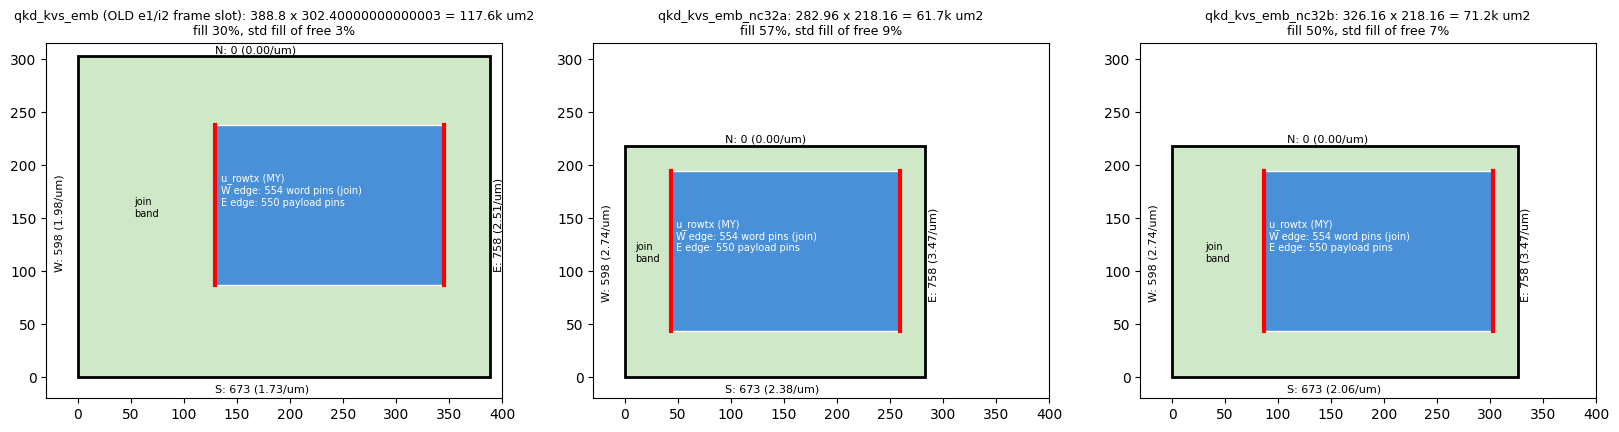
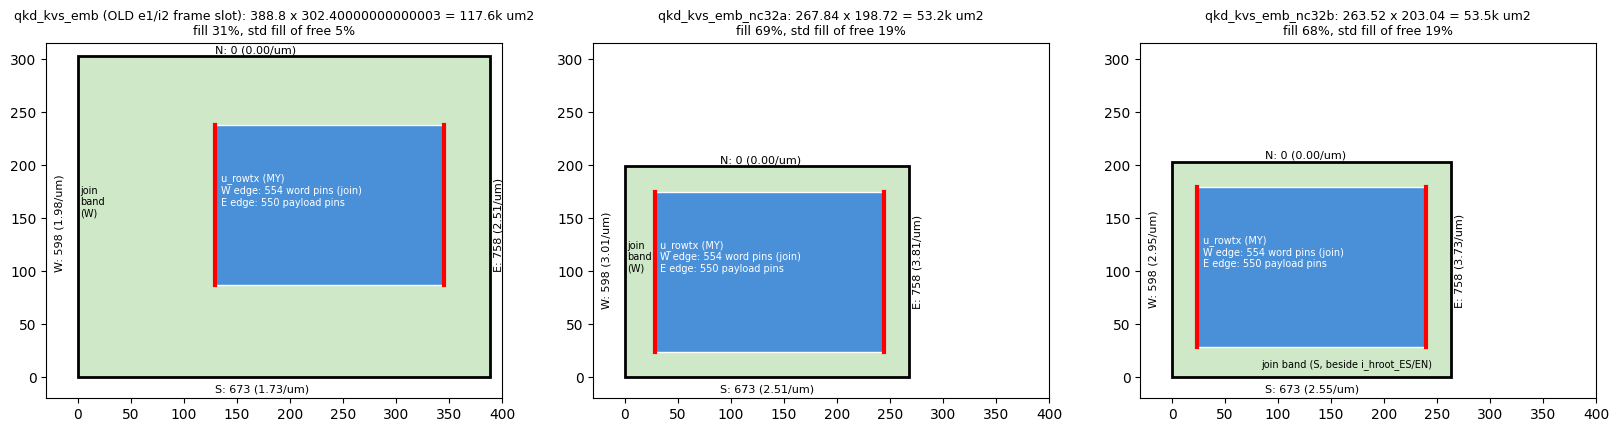
QTILE-R: kvs_emb nc32 r2 per GEOM-REVIEW FAIL: bands sized from demand (join band ~26 um, others = 20-um macro-edge rule), child on the 2.16 lattice; a = W join band 267.84x198.72, b = S join band 263.52x203.04 (std fill of free 19%)

diff --git a/results/arch/qtile_r_1023/mk_kvs_emb_nc32_specs.py b/results/arch/qtile_r_1023/mk_kvs_emb_nc32_specs.py
@@ -9,18 +9,22 @@ import copy, json, os
 ROOT = os.path.abspath(os.path.join(os.path.dirname(os.path.abspath(__file__)), "../../.."))
 base = json.load(open(f"{ROOT}/physical/ref_tile/qkd_kvs_emb/spec.json"))
 E = "rtl/qwen_sys/static_embedding_20261014/"
-for name, cx, w, tag in (("qkd_kvs_emb_nc32a", 43.2, 282.96, "nc32a"), ("qkd_kvs_emb_nc32b", 86.4, 326.16, "nc32b")):
+# r2 (GEOM-REVIEW 02:24 FAIL: bands not sized from demand): bands = demand, macro-edge rule (>= 20 um from every core edge) is
+# the floor; a: join band W (~26 um, beside the child W word edge), S/E/N = 20-um rule; b (real alternative): join band S
+# (~26 um, under the child, beside the 598 i_hroot_ES/EN S pins), W/E/N = 20-um rule.
+for name, cx, cy, w, h, tag in (("qkd_kvs_emb_nc32a", 28.08, 23.76, 267.84, 198.72, "nc32a2"), ("qkd_kvs_emb_nc32b", 23.76, 28.08, 263.52, 203.04, "nc32b2")):
     s = copy.deepcopy(base)
     s["name"] = name
     s["sources"] = ["rtl/lib/ot_rst_relay.sv", E + "qkd_embedding_static_join4_cal.sv", E + "qkd_embedding_static_join4.sv",
                     E + "qkd_embedding_static_join.sv", "rtl/qwen_sys/static_kv_die_20261017/qkd_kvs_tiles_hroot_ff_k_hl_mu_ba_n32_pj_nc32.sv"]
-    s["outline"] = {"w": w, "h": 218.16, "exact": True}
-    s["children"][0]["at"] = [cx, 43.2]
+    s["outline"] = {"w": w, "h": h, "exact": True}
+    s["child_lattice_um"] = 2.16   # child origin on the 2.16 row/site lattice; the 43.2 lattice would force 43-um empty bands (GEOM-REVIEW: size bands from demand)
+    s["children"][0]["at"] = [cx, cy]
     s["fill_reason"] = {"pin_bound": f"content = hard u_rowtx 216 x 151.2 + ~1.9k um2 std + ~2.0k pin flops; the outline is the child plus "
-                        f"one W join band ({round(cx - 2.16, 1)} um), a 41-um S band (673 S pins, 2.4/um) and 21.6-um E/N bands "
-                        f"(E 786 pins over 218 um = 3.6/um); smaller faces would exceed ~5 pins/um. Was 388.8 x 302.4 (frame slot)."}
+                        f"bands sized from demand: join band {'W' if tag.startswith('nc32a') else 'S'} ~26 um (join4_cal std + its face pin flops), every "
+                        f"other band = the 20-um macro-edge rule; fill of free ~20%; faces <= 3.9 pins/um. Was 388.8 x 302.4 (frame slot)."}
     s["low_fill_reason"] = s["fill_reason"]["pin_bound"]
-    s["slot_change_request"] = {"from": [388.8, 302.4], "to": [w, 218.16], "why": "COORD/OWNER 10-23 outline-from-content; KV die lead (STEWARD-QKd) re-derives the frame slot"}
+    s["slot_change_request"] = {"from": [388.8, 302.4], "to": [w, h], "why": "COORD/OWNER 10-23 outline-from-content; KV die lead (STEWARD-QKd) re-derives the frame slot"}
     s["structural_change"] = ("QTILE-R 10-23: kit of the BOUND nc32 qkd_kvs_emb (join4_cal NATIVE32+PIPE_JOIN, rope_sweep) with the outline from "
                               "content (was the 388.8 x 302.4 frame slot, logic only at the faces); same faces, same every-pin registers as e1")
     s["job"] = {"owner": "QTILE-R", "branch": "claude/qtile-r-kvemb-1023", "tag": tag,
@@ -29,4 +33,4 @@ for name, cx, w, tag in (("qkd_kvs_emb_nc32a", 43.2, 282.96, "nc32a"), ("qkd_kvs
         s.pop(k, None)
     d = f"{ROOT}/physical/ref_tile/{name}"; os.makedirs(d, exist_ok=True)
     json.dump(s, open(f"{d}/spec.json", "w"), indent=1)
-    print(name, w, 218.16, round(w * 218.16))
+    print(name, w, h, round(w * h))

diff --git a/results/arch/qtile_r_1023/render_kvs_emb.py b/results/arch/qtile_r_1023/render_kvs_emb.py
@@ -5,7 +5,7 @@ matplotlib.use("Agg")
 import matplotlib.pyplot as plt
 from matplotlib.patches import Rectangle
 ROOT = os.path.abspath(os.path.join(os.path.dirname(__file__), "../../.."))
-FB = {"S": 673, "E": 758, "W": 598, "N": 0}; CH = 216.0 * 151.2; STD = 2600.0
+FB = {"S": 673, "E": 758, "W": 598, "N": 0}; CH = 216.0 * 151.2; STD = 3900.0
 fig, axs = plt.subplots(1, 3, figsize=(20, 6)); out = {}
 for ax, k in zip(axs, ["qkd_kvs_emb", "qkd_kvs_emb_nc32a", "qkd_kvs_emb_nc32b"]):
     f = json.load(open(f"{ROOT}/physical/ref_tile/{k}/floorplan.json")); W, H = f["die"][2], f["die"][3]
@@ -14,7 +14,8 @@ for ax, k in zip(axs, ["qkd_kvs_emb", "qkd_kvs_emb_nc32a", "qkd_kvs_emb_nc32b"])
         ax.add_patch(Rectangle((b["x"], b["y"]), b["w"], b["h"], fc="#4a90d9", ec="w"))
         ax.plot([b["x"]] * 2, [b["y"], b["y"] + b["h"]], "r-", lw=3); ax.plot([b["x"] + b["w"]] * 2, [b["y"], b["y"] + b["h"]], "r-", lw=3)
         ax.text(b["x"] + 5, b["y"] + b["h"] / 2, "u_rowtx (MY)\nW edge: 554 word pins (join)\nE edge: 550 payload pins", fontsize=7, color="w")
-        ax.text(b["x"] / 2 - 12, H / 2, "join\nband", fontsize=7)
+        if k.endswith("nc32b"): ax.text(b["x"] + 60, b["y"] / 2 - 4, "join band (S, beside i_hroot_ES/EN)", fontsize=7)
+        else: ax.text(2, H / 2, "join\nband\n(W)", fontsize=7)
     fl = {"W": H, "E": H, "S": W, "N": W}
     for fc, (x, y, r) in {"W": (-22, H / 3, 90), "E": (W + 3, H / 3, 90), "S": (W / 3, -14, 0), "N": (W / 3, H + 3, 0)}.items():
         ax.text(x, y, f"{fc}: {FB[fc]} ({FB[fc] / fl[fc]:.2f}/um)", fontsize=8, rotation=r)
